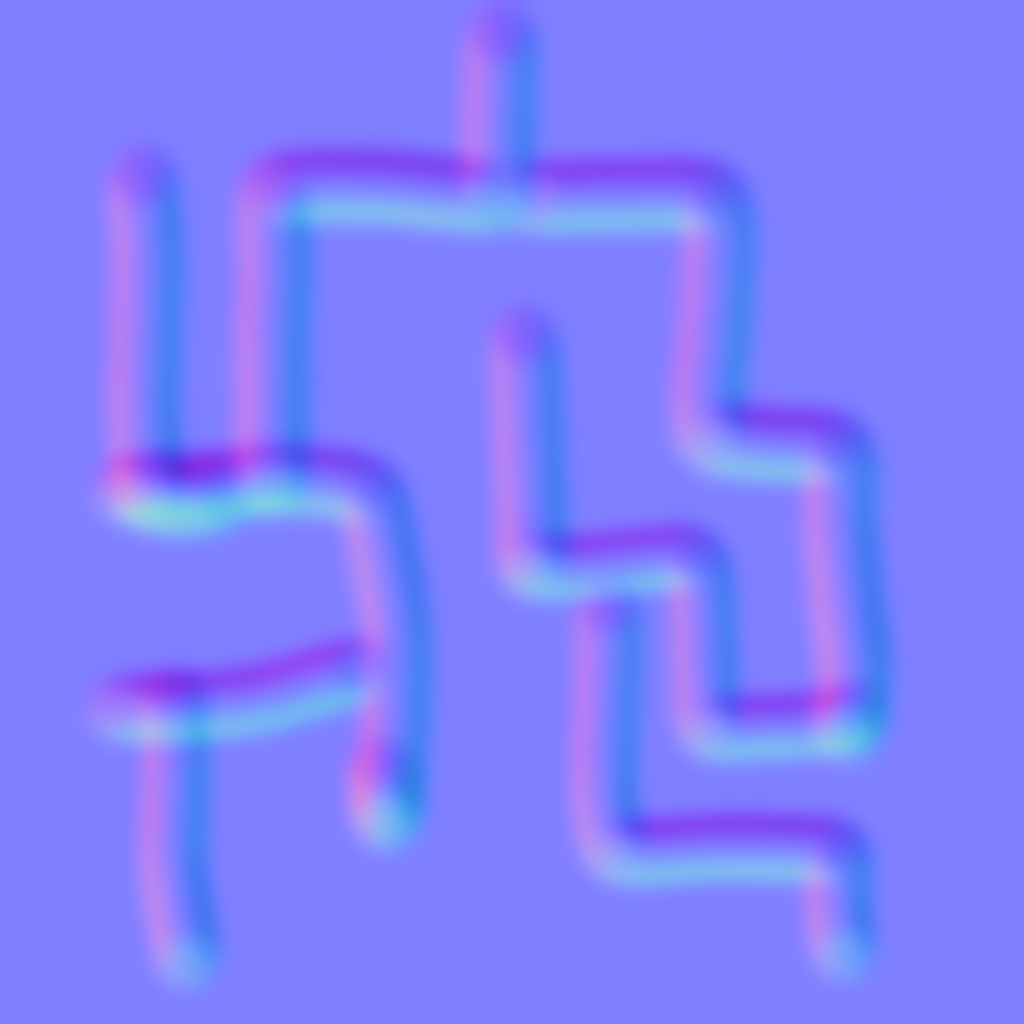
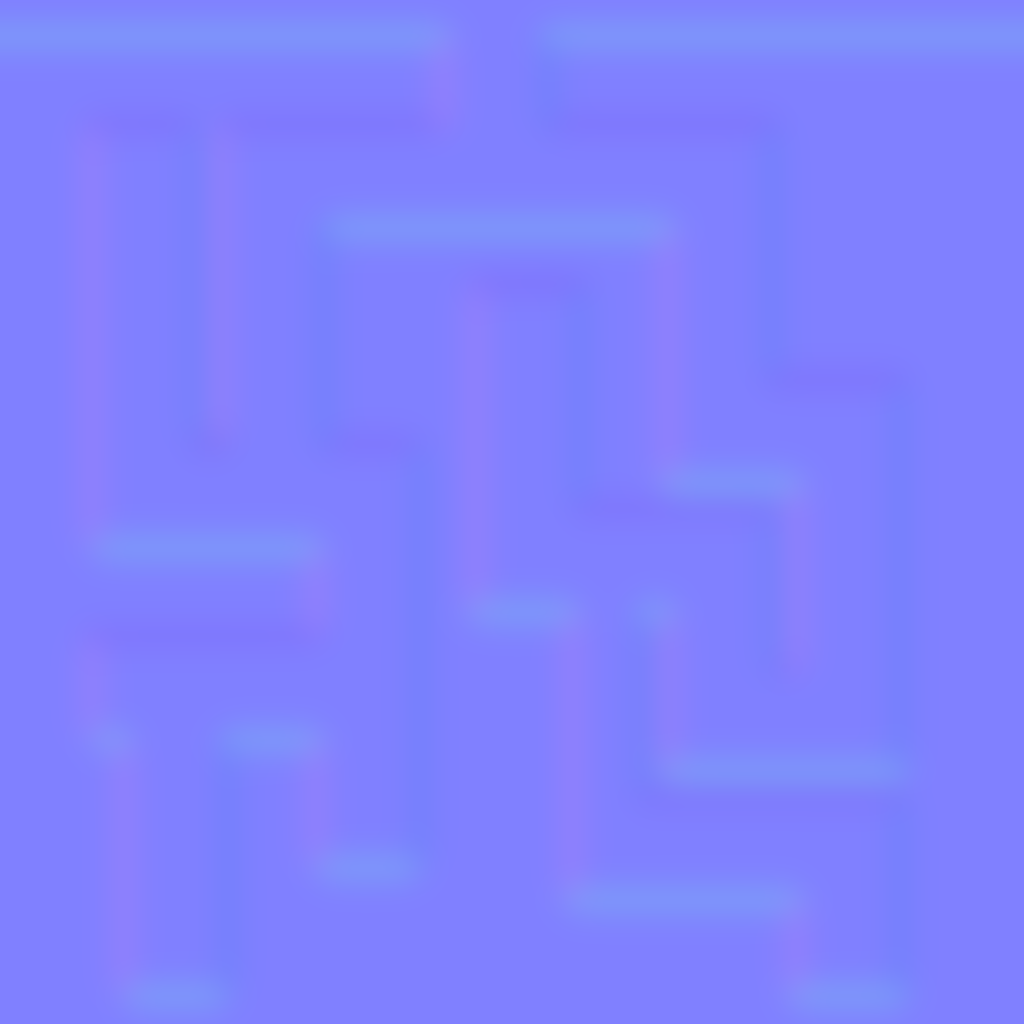
Added normals to maze edges and fixed particle gravity

Changed region(s): [[0.0938, 0.0, 0.875, 0.9688]]

diff --git a/public_html/src/MyGame/MazeLevel.js b/public_html/src/MyGame/MazeLevel.js
@@ -22,6 +22,7 @@ function MazeLevel() {
     this.kSkyTex = "assets/sky.png";
     this.kMazeNormals = "assets/maze_normals.png";
     this.kMazeEdge = "assets/maze_edge.png";
+    this.kMazeEdgeNormals = "assets/maze_edge_normals.png";
     this.kBalloonParticle = "assets/balloon_scrap.png";
     
     this.kWinHeight = 90; // height balloons must reach to win
@@ -62,6 +63,7 @@ MazeLevel.prototype.loadScene = function () {
     gEngine.Textures.loadTexture(this.kSkyTex);
     gEngine.Textures.loadTexture(this.kMazeNormals);
     gEngine.Textures.loadTexture(this.kMazeEdge);
+    gEngine.Textures.loadTexture(this.kMazeEdgeNormals);
     gEngine.Textures.loadTexture(this.kBalloonParticle);
 };
 
@@ -76,6 +78,7 @@ MazeLevel.prototype.unloadScene = function () {
     gEngine.Textures.unloadTexture(this.kSkyTex);
     gEngine.Textures.unloadTexture(this.kMazeNormals);
     gEngine.Textures.unloadTexture(this.kMazeEdge);
+    gEngine.Textures.unloadTexture(this.kMazeEdgeNormals);
     gEngine.Textures.unloadTexture(this.kBalloonParticle);
     
     if (this.mNextState === "Win") {
@@ -117,7 +120,7 @@ MazeLevel.prototype.initialize = function () {
     
     // sets the background to gray
     gEngine.DefaultResources.setGlobalAmbientIntensity(3);
-    this.world = new Maze(this.kMazePixels, this.kMazeWalls, this.kMazeEdge, this.kMazeNormals, this.kSpikeTex, this.kGateTex, this.kKeyTex, 0,0,100,100,.3,.7,true); 
+    this.world = new Maze(this.kMazePixels, this.kMazeWalls, this.kMazeEdge, this.kMazeNormals, this.kMazeEdgeNormals, this.kSpikeTex, this.kGateTex, this.kKeyTex, 0,0,100,100,.3,.7,true); 
     
     this.mLeftBalloon = new Balloon(this.kBalloonTex, this.kBalloonNormalTex, -30, -40);
     this.mLeftBalloon.getRenderable().setColor([1,0,0,0.5]);
@@ -186,6 +189,10 @@ MazeLevel.prototype.updateCameras = function () {
     followBalloon(this.mRightCamera, this.mRightBalloon, angle);
     this.mMapCamera.setRotation(angle);
     this.mMapCamera.update();
+    
+    var up = this.mLeftCamera.getUpVector();
+    var down = [-up[0], -up[1], up[2]];
+    this.mValhallaLight.setDirection(down);
 };
 
 MazeLevel.prototype.popBalloon = function (balloon) {
@@ -198,6 +205,12 @@ MazeLevel.prototype.popBalloon = function (balloon) {
                                           y + 3.0 * (Math.random() - 0.5), 
                                           this.kBalloonParticle);
         p.getRenderable().setColor(balloon.getRenderable().getColor());
+        
+        var up = this.mLeftCamera.getUpVector();
+        var grav = [-up[0], -up[1], up[2]];
+        vec2.scale(grav, grav, 20);
+        p.getParticle().mAcceleration = grav;
+        
         this.world.mPset.addToSet(p);
     }
     this.mEnding = true;

diff --git a/public_html/src/MyGame/Objects/Maze.js b/public_html/src/MyGame/Objects/Maze.js
@@ -9,17 +9,18 @@
 /* find out more about jslint: http://www.jslint.com/help.html */
 
 "use strict";
-function Maze(pixelTexture, texture, edgeTex, normalTex, hazardTex, gateTex, keyTex, x, y, w, h, res, frct, p) {
+function Maze(pixelTexture, texture, edgeTex, normalTex, edgeNormalTex, hazardTex, gateTex, keyTex, x, y, w, h, res, frct, p) {
     
     if (normalTex !== null) {
         this.mMazeTexture = new IllumRenderable(texture, normalTex);
+        this.mEdgeTexture = new IllumRenderable(edgeTex, edgeNormalTex);
     } else {
         this.mMazeTexture = new LightRenderable(texture);
+        this.mEdgeTexture = new LightRenderable(edgeTex);
     }
     this.mMazeTexture.getXform().setPosition(x, y);
     this.mMazeTexture.getXform().setSize(w, h);
     
-    this.mEdgeTexture = new LightRenderable(edgeTex);
     this.mEdgeTexture.getXform().setPosition(x, y);
     this.mEdgeTexture.getXform().setSize(w * 1.124, h * 1.124);
 
@@ -364,8 +365,8 @@ Maze.prototype.createParticle = function (atX, atY) {
     //p.setFinalColor([.61, .30, .08, 1]);
 
     // velocity on the particle
-    var fx = 30 * Math.random() - 60 * Math.random();
-    var fy = 20 * Math.random() + 10;
+    var fx = 30 * Math.random() - 15;
+    var fy = 30 * Math.random() - 15;
     p.getParticle().setVelocity([fx, fy]);
 
     // size delta
@@ -376,4 +377,5 @@ Maze.prototype.createParticle = function (atX, atY) {
 
 Maze.prototype.addLight = function (l){
     this.mMazeTexture.addLight(l);
+    this.mEdgeTexture.addLight(l);
 };
